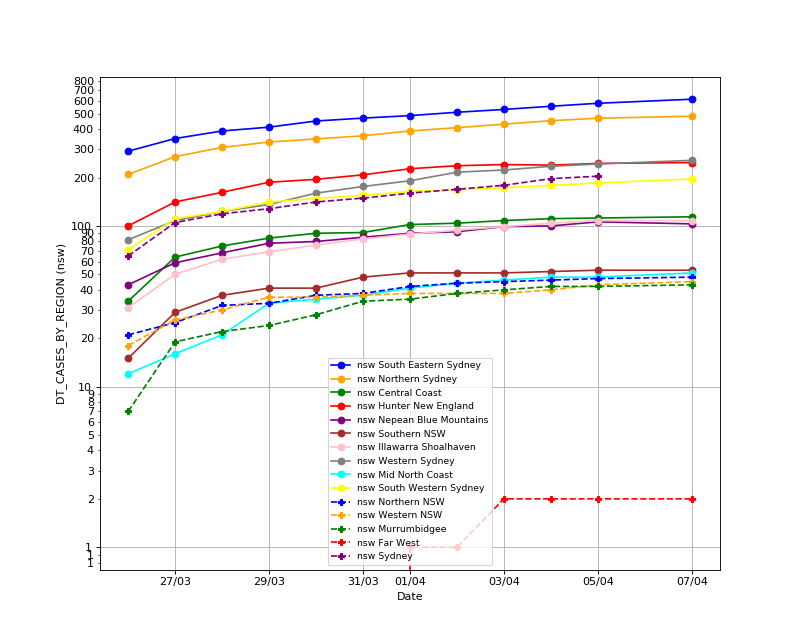
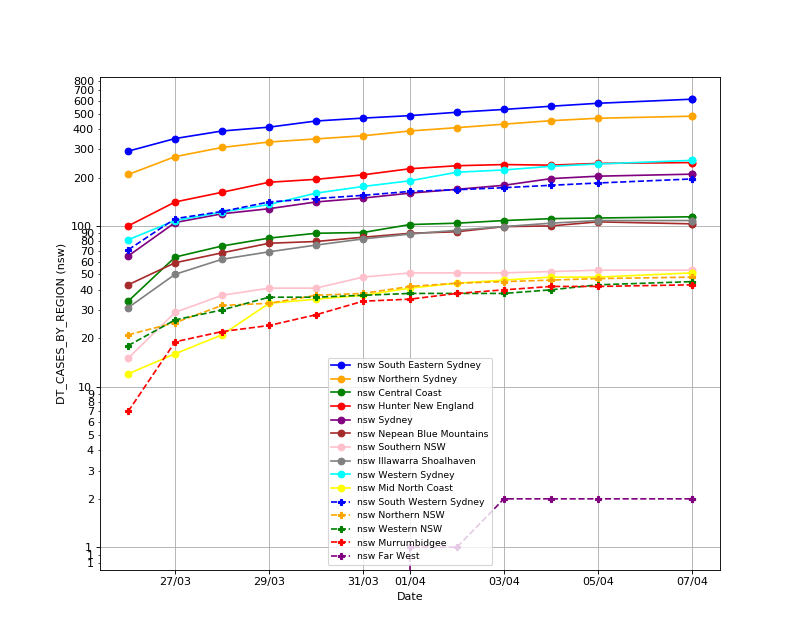
updated graphs+added sa age graph

diff --git a/output_graphs/output_graphs.py b/output_graphs/output_graphs.py
@@ -144,7 +144,7 @@ def output_graph(datatype,
     plt.xlabel('Date')
     plt.ylabel(y_label)
 
-    if max_y > 50:
+    if max_y > 50 and datatype != 'DT_NEW_CASES':
         plt.yscale('log')
         from matplotlib.ticker import ScalarFormatter
         for axis in [ax.yaxis]:
@@ -170,6 +170,8 @@ def output_graphs():
     output_graph('DT_AGE_FEMALE', state_filter='vic')
     output_graph('DT_AGE_MALE', state_filter='nsw')
     output_graph('DT_AGE_FEMALE', state_filter='nsw')
+    output_graph('DT_AGE_MALE', state_filter='sa')
+    output_graph('DT_AGE_FEMALE', state_filter='sa')
     output_graph('DT_AGE', state_filter='act')
     output_graph('DT_CASES_BY_REGION', state_filter='vic',
                  name_filter=lambda p: p[0].lower() < 'm',
@@ -183,7 +185,7 @@ def output_graphs():
     output_graph('DT_CASES_BY_REGION', state_filter='wa',
                  name_filter=lambda p: p[0].lower() >= 'm',
                  append_to_name='m-z')
-    output_graph('DT_CASES_BY_REGION', state_filter='nsw')
+    output_graph('DT_CASES_BY_LHA', state_filter='nsw')  # LGA??
     output_graph('DT_CASES_BY_REGION', state_filter='qld')
     output_graph('DT_NEW_CASES_BY_REGION', state_filter='qld')
     output_graph('DT_NEW_CASES_BY_REGION', state_filter='wa')
